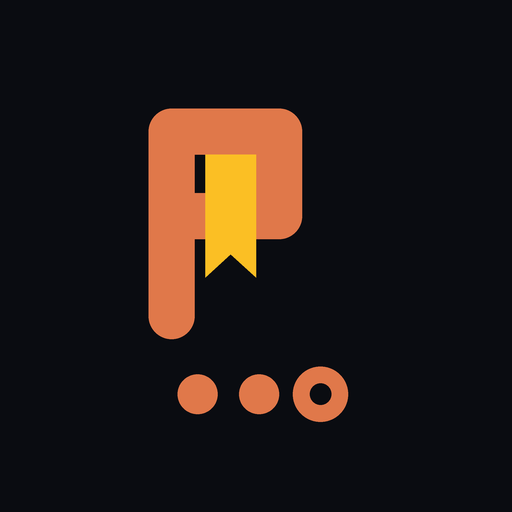
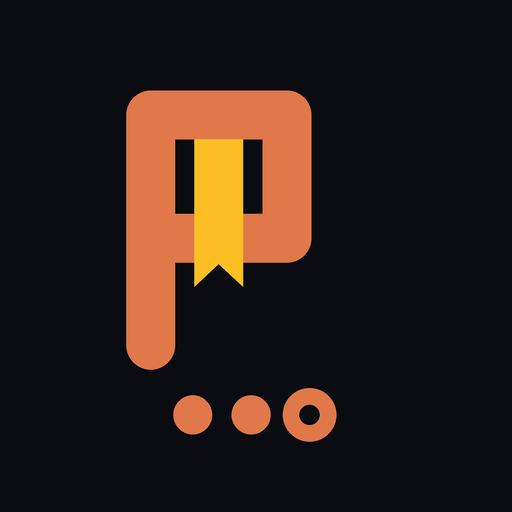
Add files via upload

Changed region(s): [[0.2188, 0.1562, 0.625, 0.75], [0.3125, 0.7188, 0.6875, 0.875]]

diff --git a/index.html b/index.html
@@ -10,8 +10,8 @@
 <meta name="apple-mobile-web-app-title" content="Paginia">
 <title>Paginia</title>
 <link rel="manifest" href="manifest.webmanifest">
-<link rel="apple-touch-icon" href="apple-touch-icon-v1.png">
-<link rel="icon" type="image/png" sizes="192x192" href="icon-192-v1.png">
+<link rel="apple-touch-icon" href="apple-touch-icon-v2.png">
+<link rel="icon" type="image/png" sizes="192x192" href="icon-192-v2.png">
 <style>
 :root{
   --bg:#0a0c11; --bg2:#12151e; --bg3:#1a1e2a; --bg4:#222738; --line:#242a3a; --line2:#303752;
@@ -279,14 +279,14 @@ main{min-height:calc(100vh - 136px - var(--sat) - var(--sab))}
   <div class="logo">
     <div class="logo-mark">
       <svg viewBox="0 0 24 24">
-        <rect x="5" y="2.4" width="3" height="15" rx="1.5" fill="#e0784a"/>
-        <rect x="5" y="2.4" width="10" height="3" rx="1.5" fill="#e0784a"/>
-        <rect x="12" y="2.4" width="3" height="8.5" rx="1.5" fill="#e0784a"/>
-        <rect x="5" y="7.9" width="10" height="3" rx="1.5" fill="#e0784a"/>
-        <polygon points="8.7,5.4 12,5.4 12,13.4 10.35,11.9 8.7,13.4" fill="#fbbf24"/>
-        <circle cx="8.2" cy="21" r="1.3" fill="#e0784a"/>
-        <circle cx="12.2" cy="21" r="1.3" fill="#e0784a"/>
-        <circle cx="16.2" cy="21" r="1.25" fill="none" stroke="#e0784a" stroke-width="1.1"/>
+        <rect x="4" y="1.8" width="3" height="17.2" rx="1.5" fill="#e0784a"/>
+        <rect x="4" y="1.8" width="11.4" height="3" rx="1.5" fill="#e0784a"/>
+        <rect x="12.4" y="1.8" width="3" height="10.6" rx="1.5" fill="#e0784a"/>
+        <rect x="4" y="9.4" width="11.4" height="3" rx="1.5" fill="#e0784a"/>
+        <polygon points="8.2,4.8 11.2,4.8 11.2,13.9 9.7,12.5 8.2,13.9" fill="#fbbf24"/>
+        <circle cx="8.1" cy="21.8" r="1.2" fill="#e0784a"/>
+        <circle cx="11.7" cy="21.8" r="1.2" fill="#e0784a"/>
+        <circle cx="15.3" cy="21.8" r="1.13" fill="none" stroke="#e0784a" stroke-width="1.05"/>
       </svg>
     </div>
     <h1>Paginia</h1>
@@ -325,9 +325,9 @@ main{min-height:calc(100vh - 136px - var(--sat) - var(--sab))}
 <script>
 "use strict";
 /* ============ Paginia — personal book tracker ============ */
-/* v1.0.0 */
-const APP_VERSION = "1.0.0";
-const WHATS_NEW = "Welcome to Paginia — track what you read, how fast, and what's next.";
+/* v1.1.0 */
+const APP_VERSION = "1.1.0";
+const WHATS_NEW = "Friends & sharing (Settings), book descriptions on the book page, smarter covers \u2014 run Settings \u2192 Improve covers once \u2014 and a refreshed logo.";
 const LS_KEY = "paginia.v1";
 const GIST_FILE = "paginia-sync.json";
 const OL = "https://openlibrary.org";
@@ -349,6 +349,7 @@ const I = {
   search:'<svg viewBox="0 0 24 24"><circle cx="11" cy="11" r="7"/><path d="m21 21-4.3-4.3"/></svg>',
   cloud:'<svg viewBox="0 0 24 24"><path d="M17.5 19a4.5 4.5 0 0 0 .42-8.98 7 7 0 0 0-13.36 1.9A4 4 0 0 0 6 19z"/></svg>',
   moon:'<svg viewBox="0 0 24 24"><path d="M21 12.8A9 9 0 1 1 11.2 3a7 7 0 0 0 9.8 9.8z"/></svg>',
+  chat:'<svg viewBox="0 0 24 24"><path d="M21 11.5a8.4 8.4 0 0 1-8.5 8.3 8.9 8.9 0 0 1-3.8-.8L3 20l1.1-5A8 8 0 0 1 3.5 11.5 8.4 8.4 0 0 1 12 3.2a8.4 8.4 0 0 1 9 8.3z"/></svg>',
   edit:'<svg viewBox="0 0 24 24"><path d="M17 3a2.8 2.8 0 1 1 4 4L7.5 20.5 2 22l1.5-5.5z"/></svg>',
   play:'<svg viewBox="0 0 24 24"><polygon points="6 4 20 12 6 20 6 4"/></svg>',
   link:'<svg viewBox="0 0 24 24"><path d="M10 13a5 5 0 0 0 7.5.5l3-3a5 5 0 0 0-7-7l-1.7 1.7"/><path d="M14 11a5 5 0 0 0-7.5-.5l-3 3a5 5 0 0 0 7 7l1.7-1.7"/></svg>',
@@ -476,6 +477,14 @@ function load(){
   state.books = state.books || {};
   state.settings = state.settings || {theme:"system"};
   state.updatedAt = state.updatedAt || Date.now();
+  state.comments = state.comments || [];
+  state.friends = state.friends || [];
+  // v1.1.0: ISBN cover URLs get ?default=false so missing covers 404 into the placeholder instead of a blank image
+  for(const k in state.books){
+    const b = state.books[k];
+    if(b && b.cover && b.cover.indexOf("covers.openlibrary.org/b/isbn/") !== -1 && b.cover.indexOf("default=false") === -1)
+      b.cover += (b.cover.indexOf("?") !== -1 ? "&" : "?") + "default=false";
+  }
 }
 
 /* ---------- cloud sync (private GitHub gist) ---------- */
@@ -506,6 +515,7 @@ async function gistPush(){
     await gistApi("PATCH", "/gists/"+state.gist.id, { files: { [GIST_FILE]: { content: JSON.stringify(syncedState()) } } });
     state.gist.lastPush = Date.now();
     localStorage.setItem(LS_KEY, JSON.stringify(state)); // persist lastPush without re-scheduling
+    feedPush();
   }catch(e){
     if(e.message==="auth") toast("Cloud sync: token invalid — reconnect in Settings", 4000);
   }
@@ -842,8 +852,9 @@ function viewLibrary(){
   const filters = [["all","All"],["reading","Reading"],["read","Read"],["to_read","To read"],["dnf","Unfinished"]];
   h += `<div class="chips">${filters.map(([k,l])=>
       `<button class="chip ${libFilter===k?"act":""}" onclick="libFilter='${k}';render()">${l}</button>`).join("")}
-    <button class="chip gold ${libFilter==="history"?"act":""}" onclick="libFilter='history';render()">History</button></div>`;
+    <button class="chip gold ${libFilter==="history"?"act":""}" onclick="libFilter='history';render()">History</button>${((state.feed&&state.feed.on)||(state.friends&&state.friends.length))?`<button class="chip gold ${libFilter==="friends"?"act":""}" onclick="libFilter='friends';render()">Friends</button>`:""}</div>`;
   if(libFilter === "history") return h + viewHistory(q);
+  if(libFilter === "friends") return h + viewFriends();
   // tag chips by count
   const tagCount = {};
   for(const b of allBooks()) for(const t of (b.tags||[])) tagCount[t] = (tagCount[t]||0)+1;
@@ -1067,6 +1078,9 @@ function openBook(key){
   if(!b) return;
   listScroll = window.scrollY || 0;
   currentSheetKey = key;
+  descOpen = false;
+  loadDesc(key);
+  loadFriendFeeds().then(ref=>{ if(ref && currentSheetKey===key) renderSheet(key); });
   renderSheet(key);
   $("#sheet").classList.remove("hidden");
   window.scrollTo(0,0);
@@ -1100,6 +1114,7 @@ function renderSheet(key){
           <u onclick="openEditMeta('${key}')">${b.year||"year?"} · ${b.pages?b.pages+" pages":"pages?"}</u></div>
       </div>
     </div>
+    ${descHtml(b)}
     ${b.status==="reading"?`
     <div class="dprog">
       <div class="dpr"><span>Progress</span><b>p. ${b.cur?b.cur.page:0}${b.pages?" / "+b.pages:""}</b><span>${p!=null?p+"%":""}</span></div>
@@ -1125,6 +1140,7 @@ function renderSheet(key){
     <h2 class="sec">Reading history</h2>
     ${(b.reads||[]).length?`<div class="readbox">${readsHtml}</div>`:`<div class="smallmeta">No finished reads yet.</div>`}
     <button class="abtn" style="width:100%;margin-bottom:18px" onclick="openEditRead('${key}',-1)">+ Add read</button>
+    ${bookCommentsHtml(b)}
     <h2 class="sec">More</h2>
     <button class="abtn" style="width:100%;margin-bottom:9px" onclick="openMatch('${key}')">${b.olKey?"Re-match":"Match"} on Open Library</button>
     ${b.olKey?`<a class="abtn" style="width:100%;display:block;text-decoration:none;margin-bottom:9px" href="${OL}/works/${esc(b.olKey)}" target="_blank" rel="noopener">Open Library page ↗</a>`:""}
@@ -1268,6 +1284,8 @@ function openSettings(){
     ${gistOn
       ? `<button class="mrow" onclick="disconnectGist()">${I.cloud}Cloud sync: on ✓<span class="md">${state.gist.lastPush?"saved "+agoStr(state.gist.lastPush):"tap to disconnect"}</span></button>`
       : `<button class="mrow" onclick="openSyncSetup()">${I.cloud}Set up cloud sync<span class="md">recommended</span></button>`}
+    <button class="mrow" onclick="openFriends()">${I.chat}Friends &amp; sharing<span class="md">${(state.friends&&state.friends.length)?state.friends.length+" friend"+(state.friends.length>1?"s":""):((state.feed&&state.feed.on)?"sharing on":"off")} ›</span></button>
+    <button class="mrow" onclick="matchAllCovers()">${I.search}Improve covers &amp; matches<span class="md">${allBooks().filter(b=>!b.olKey).length} unmatched</span></button>
     <button class="mrow" onclick="exportBackup()">${I.down}Export backup (JSON)<span class="md">${kb} KB</span></button>
     <button class="mrow" onclick="document.getElementById('imp').click()">${I.up}Import backup / Goodreads CSV<span class="md">.json / .csv</span></button>
     <button class="mrow" style="color:var(--red)" onclick="resetAll()">${I.trash}Reset all data</button>
@@ -1381,7 +1399,7 @@ function grBook(r){
     key: "gr"+grId, grId, olKey:null,
     title: (r["Title"]||"Untitled").trim(),
     author: (r["Author"]||"").trim(),
-    cover: isbn ? `https://covers.openlibrary.org/b/isbn/${isbn}-M.jpg` : null,
+    cover: isbn ? `https://covers.openlibrary.org/b/isbn/${isbn}-M.jpg?default=false` : null,
     isbn, year, pages, status,
     rating: Math.round(parseFloat(r["My Rating"])||0),
     tags, dateAdded: grDate(r["Date Added"]) || todayStr(),
@@ -1402,6 +1420,246 @@ function importGoodreads(txt){
   }
   save(); closeModal(); render();
   toast(`${added} books imported ✓${skipped?` (${skipped} already in library)`:""}`, 3500);
+}
+
+
+/* ---------- book description (Open Library, fetched live, never stored) ---------- */
+let descCache = {}, descOpen = false;
+function descHtml(b){
+  if(!b.olKey) return `<div id="bdesc"></div>`;
+  const d = descCache[b.olKey];
+  if(d === undefined || d === null) return `<div id="bdesc" class="smallmeta" style="margin:14px 2px 0">Loading description…</div>`;
+  if(!d) return `<div id="bdesc"></div>`;
+  const long = d.length > 320;
+  const shown = (long && !descOpen) ? d.slice(0, 320).replace(/\s+\S*$/,"") + "…" : d;
+  return `<div id="bdesc" class="note" style="margin:16px 0 0">${esc(shown)}${long?` <button style="color:var(--acc);font-weight:700" onclick="descOpen=!descOpen;renderSheet('${b.key}')">${descOpen?"less":"more"}</button>`:""}</div>`;
+}
+async function loadDesc(key){
+  const b = state.books[key];
+  if(!b || !b.olKey || descCache[b.olKey] !== undefined) return;
+  descCache[b.olKey] = null; // in flight
+  try{
+    const r = await fetch(OL+"/works/"+b.olKey+".json");
+    const j = await r.json();
+    let d = j.description || "";
+    if(d && typeof d === "object") d = d.value || "";
+    d = String(d).replace(/\[([^\]]*)\]\([^)]*\)/g,"$1").replace(/\r?\n+/g," ").replace(/\s+/g," ").trim();
+    descCache[b.olKey] = d;
+  }catch(e){ descCache[b.olKey] = ""; }
+  if(currentSheetKey === key){
+    const el = document.getElementById("bdesc");
+    if(el) el.outerHTML = descHtml(b);
+  }
+}
+
+/* ---------- bulk cover / metadata matcher (Open Library) ---------- */
+let matchingAll = false;
+function normT(s){ return String(s||"").toLowerCase().replace(/[^a-z0-9 ]/g," ").replace(/\s+/g," ").trim(); }
+function pickBest(b, docs){
+  const bt = normT(b.title.split(/[:(]/)[0]);
+  if(!bt) return null;
+  const ba = normT((b.author||"").split(",")[0]).split(" ").pop();
+  for(const d of docs || []){
+    const dt = normT(d.title);
+    if(!dt) continue;
+    const tOk = dt === bt || dt.indexOf(bt) === 0 || bt.indexOf(dt) === 0;
+    const aOk = !ba || normT((d.author_name||[]).join(" ")).indexOf(ba) !== -1;
+    if(tOk && aOk) return d;
+  }
+  return null;
+}
+async function matchAllCovers(){
+  if(matchingAll) return;
+  const todo = allBooks().filter(b=>!b.olKey);
+  if(!todo.length){ toast("All books are already matched ✓"); return; }
+  if(!confirm(`Search Open Library for ${todo.length} unmatched books to fix covers, pages and years?\n\nTakes ~${Math.max(1,Math.ceil(todo.length/70))} min — keep the app open.`)) return;
+  matchingAll = true; closeModal();
+  let done = 0, hit = 0;
+  for(const b of todo){
+    done++;
+    if(done===1 || done % 10 === 0 || done === todo.length) toast(`Matching… ${done}/${todo.length} · ${hit} found`, 60000);
+    try{
+      const q = b.title.split(/[:(]/)[0].trim() + " " + (b.author||"").split(",")[0];
+      const r = await fetch(OL+"/search.json?q="+encodeURIComponent(q)+"&limit=5&fields=key,title,author_name,cover_i,number_of_pages_median,first_publish_year");
+      const d = pickBest(b, (await r.json()).docs);
+      if(d){
+        b.olKey = (d.key||"").split("/").pop();
+        if(d.cover_i) b.cover = `https://covers.openlibrary.org/b/id/${d.cover_i}-M.jpg`;
+        if(!b.pages && d.number_of_pages_median) b.pages = d.number_of_pages_median;
+        if(!b.year && d.first_publish_year) b.year = d.first_publish_year;
+        hit++;
+      }
+    }catch(e){ /* offline blip — keep going */ }
+    await new Promise(res=>setTimeout(res, 550));
+  }
+  matchingAll = false;
+  save(); render();
+  toast(`Matched ${hit} of ${todo.length} books ✓ — wrong ones can be re-matched on their book page`, 6000);
+}
+
+/* ---------- friends feed (opt-in public gist) ---------- */
+const FEED_FILE = "paginia-feed.json";
+let friendsCache = {loaded:0, rows:[], comments:[]};
+function feedItems(){
+  const items = [];
+  for(const b of allBooks())
+    for(const r of (b.reads||[])){
+      if(!r.end) continue;
+      items.push({t:b.title, a:b.author||"", d:r.end, r:b.rating||0, c:b.cover||null, k:b.olKey||null});
+    }
+  items.sort((x,y)=>y.d.localeCompare(x.d));
+  return items.slice(0,50);
+}
+async function feedPush(){
+  if(!state.feed || !state.feed.on || !state.gist || !state.gist.token) return;
+  const payload = {name: state.feed.name || "A reader", updatedAt: Date.now(),
+    items: feedItems(), comments: (state.comments||[]).slice(-30)};
+  try{
+    if(state.feed.id){
+      await gistApi("PATCH","/gists/"+state.feed.id,{files:{[FEED_FILE]:{content: JSON.stringify(payload)}}});
+    } else {
+      const g = await gistApi("POST","/gists",{description:"Paginia reading feed", public:true, files:{[FEED_FILE]:{content: JSON.stringify(payload)}}});
+      state.feed.id = g.id;
+      localStorage.setItem(LS_KEY, JSON.stringify(state));
+    }
+  }catch(e){}
+}
+function toggleShare(){
+  if(!state.gist || !state.gist.token){ toast("Set up cloud sync first — sharing uses the same GitHub account", 4200); return; }
+  state.feed = state.feed || {on:false, name:"", id:null};
+  if(state.feed.on){
+    state.feed.on = false;
+    if(state.feed.id) gistApi("PATCH","/gists/"+state.feed.id,{files:{[FEED_FILE]:{content: JSON.stringify({name:state.feed.name, updatedAt:Date.now(), items:[], comments:[]})}}}).catch(()=>{});
+    save(); openFriends(); return;
+  }
+  const name = prompt("Display name your friends will see:", state.feed.name || "");
+  if(name === null) return;
+  state.feed.on = true; state.feed.name = (name||"A reader").trim().slice(0,30);
+  save(); feedPush(); openFriends();
+  toast("Sharing on — friends add you by your GitHub username");
+}
+async function addFriend(){
+  const u = ((document.getElementById("fr-u")||{}).value||"").trim().replace(/^@/,"");
+  if(!u) return;
+  toast("Looking up @"+u+"…", 6000);
+  try{
+    const r = await fetch("https://api.github.com/users/"+encodeURIComponent(u)+"/gists?per_page=100");
+    if(!r.ok) throw 0;
+    const g = ((await r.json())||[]).find(x=>x.files && x.files[FEED_FILE]);
+    if(!g){ toast("@"+u+" isn't sharing a Paginia feed yet", 4200); return; }
+    state.friends = state.friends || [];
+    if(!state.friends.find(f=>f.id===g.id)) state.friends.push({u, id:g.id});
+    friendsCache.loaded = 0;
+    save(); openFriends();
+    toast("@"+u+" added ✓");
+  }catch(e){ toast("Couldn't reach GitHub — try again", 3500); }
+}
+function removeFriend(id){
+  if(!confirm("Remove this friend?")) return;
+  state.friends = (state.friends||[]).filter(f=>f.id!==id);
+  friendsCache.loaded = 0;
+  save(); openFriends();
+}
+function openFriends(){
+  const on = state.feed && state.feed.on;
+  const fr = state.friends || [];
+  $("#modal").innerHTML = `<div class="mbox" onclick="event.stopPropagation()">
+    <h3>Friends &amp; sharing</h3>
+    <div class="note">Friends see each other's recently <b>finished books</b> and comments under the gold <b>Friends</b> chip in Library. Each person needs: cloud sync on, sharing on, and each other's <b>GitHub username</b> added below.</div>
+    <button class="mrow" onclick="toggleShare()">${I.cloud}Share my reading<span class="md">${on?("on ✓ as "+esc(state.feed.name)):"off"}</span></button>
+    ${fr.map(f=>`<button class="mrow" onclick="removeFriend('${esc(f.id)}')">@${esc(f.u)}<span class="md">tap to remove</span></button>`).join("")}
+    <div style="display:flex;gap:8px;margin-top:12px">
+      <input id="fr-u" class="minput" style="margin:0;flex:1" placeholder="Friend's GitHub username" autocapitalize="none" autocomplete="off">
+      <button class="abtn primary" style="flex:0 0 auto" onclick="addFriend()">Add</button>
+    </div>
+  </div>`;
+  $("#modal").classList.remove("hidden");
+  $("#modal").onclick = closeModal;
+}
+async function loadFriendFeeds(force=false){
+  const fr = state.friends || [];
+  if(!fr.length){ friendsCache = {loaded:Date.now(), rows:[], comments:[]}; return false; }
+  if(!force && Date.now() - friendsCache.loaded < 5*60000) return false;
+  friendsCache.loaded = Date.now(); // set first so parallel calls don't double-fetch
+  const rows = [], comments = [];
+  await Promise.all(fr.map(async f => {
+    try{
+      const r = await fetch("https://api.github.com/gists/"+f.id);
+      if(!r.ok) return;
+      const g = await r.json();
+      const file = g.files && g.files[FEED_FILE];
+      if(!file) return;
+      let content = file.content;
+      if((!content || file.truncated) && file.raw_url){
+        const rr = await fetch(file.raw_url);
+        if(rr.ok) content = await rr.text();
+      }
+      const j = JSON.parse(content);
+      for(const it of (j.items||[]).slice(0,50)) rows.push(Object.assign({name:j.name||"@"+f.u}, it));
+      for(const c of (j.comments||[])) comments.push(Object.assign({name:j.name||"@"+f.u}, c));
+    }catch(e){}
+  }));
+  rows.sort((a,b)=>String(b.d||"").localeCompare(String(a.d||"")));
+  friendsCache.rows = rows; friendsCache.comments = comments;
+  return true;
+}
+function viewFriends(){
+  loadFriendFeeds().then(ref=>{ if(ref && tab==="library" && libFilter==="friends") render(); });
+  const fr = state.friends || [];
+  if(!fr.length) return `<div class="empty"><div class="big">👥</div>Add friends in Settings → <b>Friends &amp; sharing</b>.<br>Their finished books show up here.</div>`;
+  if(!friendsCache.rows.length && Date.now()-friendsCache.loaded < 4000) return `<div class="empty">Loading friends' reading…</div>`;
+  if(!friendsCache.rows.length) return `<div class="empty"><div class="big">📭</div>No activity from friends yet.</div>`;
+  let h = friendsCache.rows.slice(0,60).map(r=>`
+    <div class="hrow">
+      ${r.c?`<img class="hposter" src="${esc(r.c)}" loading="lazy" alt="" onerror="this.style.display='none'">`:""}
+      <div class="hinfo">
+        <div class="ht">${esc(r.t)} ${r.r?`<span class="starmini">★${r.r}</span>`:""}</div>
+        <div class="hs"><b style="color:var(--acc-2)">${esc(r.name)}</b> finished${r.a?` · ${esc(r.a)}`:""}</div>
+      </div>
+      <div class="hd">${fmtDate(r.d)}</div>
+    </div>`).join("");
+  const cm = (friendsCache.comments||[]).slice().sort((a,b)=>(b.ts||0)-(a.ts||0)).slice(0,20);
+  if(cm.length) h += `<h2 class="sec">Latest comments</h2>` + cm.map(c=>`
+    <div class="hrow"><div class="hinfo"><div class="ht">💬 ${esc(c.t)}</div>
+    <div class="hs"><b style="color:var(--acc-2)">${esc(c.name)}</b> · ${esc(c.x)}</div></div>
+    <div class="hd">${agoStr(c.ts||Date.now())}</div></div>`).join("");
+  return h;
+}
+
+/* ---------- per-book comments (shared via the feed gist) ---------- */
+function cmtMatch(c, b){ return (c.k && b.olKey) ? c.k === b.olKey : normT(c.t) === normT(b.title); }
+function addComment(key){
+  const b = state.books[key];
+  const el = document.getElementById("cmt-in");
+  const text = ((el && el.value) || "").trim().slice(0,280);
+  if(!b || !text) return;
+  state.comments = state.comments || [];
+  state.comments.push({k:b.olKey||null, t:b.title, ts:Date.now(), x:text});
+  if(state.comments.length > 100) state.comments = state.comments.slice(-100);
+  save(); renderSheet(key);
+}
+function removeComment(ts){
+  if(!confirm("Delete this comment?")) return;
+  state.comments = (state.comments||[]).filter(c=>c.ts!==ts);
+  save(); if(currentSheetKey) renderSheet(currentSheetKey);
+}
+function bookCommentsHtml(b){
+  const social = (state.feed && state.feed.on) || (state.friends && state.friends.length);
+  const own = (state.comments||[]).filter(c=>cmtMatch(c,b));
+  const fr = (friendsCache.comments||[]).filter(c=>cmtMatch(c,b));
+  if(!social && !own.length) return "";
+  const rows = own.map(c=>({name:"You", ts:c.ts, x:c.x, mine:true}))
+    .concat(fr.map(c=>({name:c.name, ts:c.ts||0, x:c.x})))
+    .sort((a,c)=>a.ts-c.ts);
+  let h = `<h2 class="sec">Comments</h2>`;
+  if(rows.length) h += `<div class="readbox">` + rows.map(r=>`
+    <div class="readrow"><span class="rd" style="line-height:1.5"><b style="color:var(--acc-2)">${esc(r.name)}</b> <span style="color:var(--tx3);font-size:11px">${agoStr(r.ts)}</span><br>${esc(r.x)}</span>
+    ${r.mine?`<button class="unmark" onclick="removeComment(${r.ts})">${I.x}</button>`:""}</div>`).join("") + `</div>`;
+  h += `<div style="display:flex;gap:8px;margin:10px 0 4px">
+    <input id="cmt-in" class="minput" style="margin:0;flex:1" maxlength="280" placeholder="Comment for your friends…" onkeydown="if(event.key==='Enter')addComment('${b.key}')">
+    <button class="abtn primary" style="flex:0 0 auto" onclick="addComment('${b.key}')">Post</button></div>`;
+  if(!state.feed || !state.feed.on) h += `<div class="smallmeta">Comments stay on this device until you turn on sharing (Settings → Friends &amp; sharing).</div>`;
+  return h;
 }
 
 /* ---------- boot ---------- */